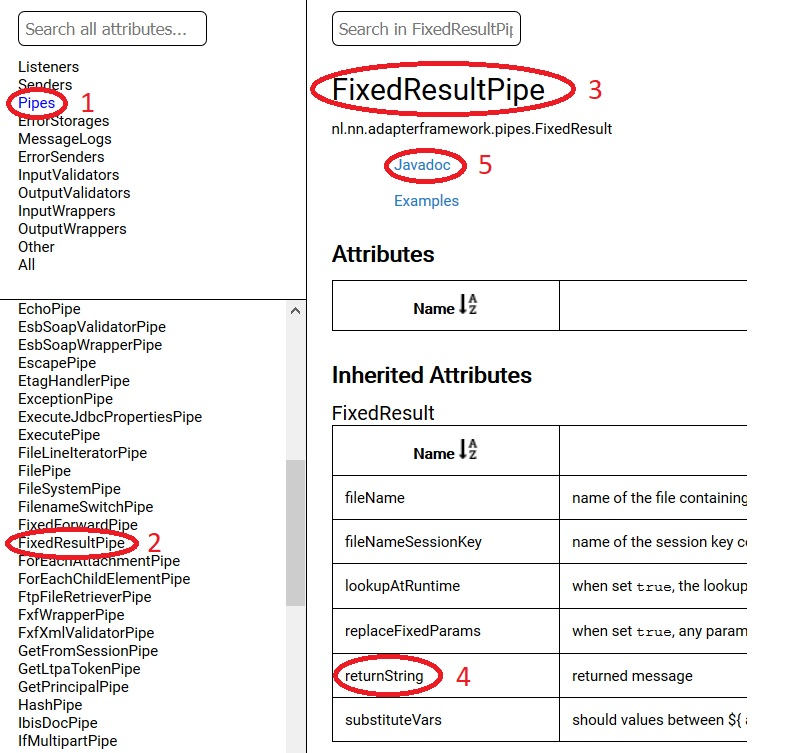
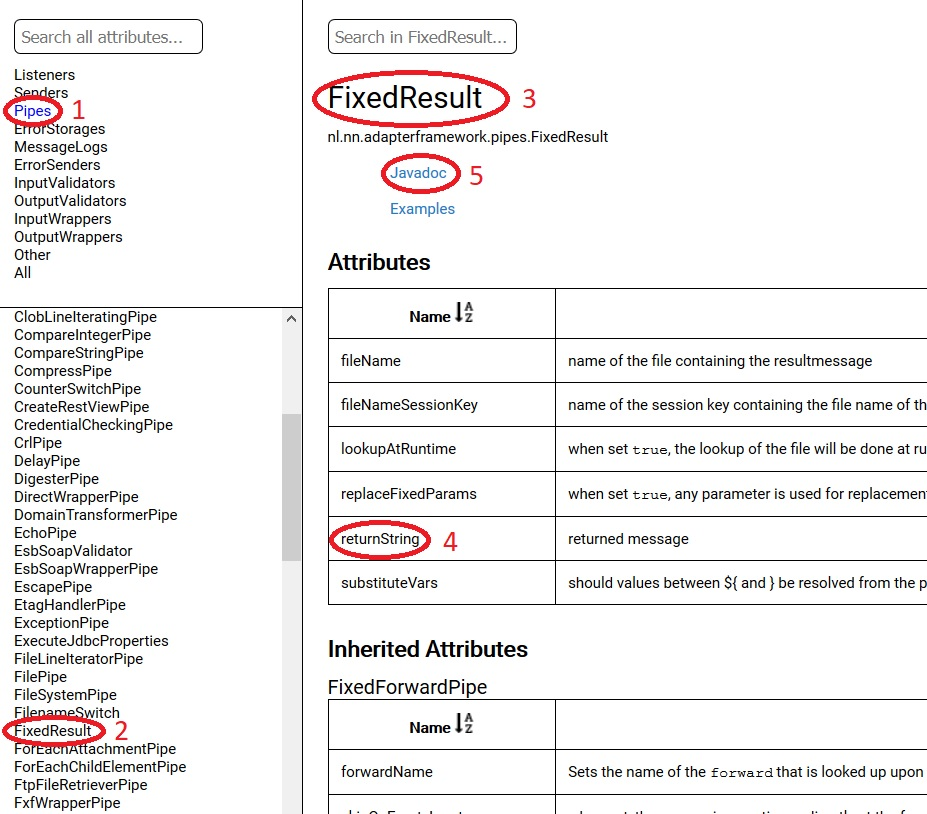
Fix Getting Started Configuration Management

diff --git a/docs/source/gettingStarted/configurationSyntaxChecking.rst b/docs/source/gettingStarted/configurationSyntaxChecking.rst
@@ -59,14 +59,14 @@ Please do the following to download the Frank configuration schema:
 Frank!Doc
 ---------
 
-From the screen shown at step 2, you can access the Frank!Doc, an additional source of documentation. It lets you search pipes, senders and receivers and it gives you detailed information.
+From the screen shown at step 3, you can access the Frank!Doc, an additional source of documentation. It lets you search pipes, senders and receivers and it gives you detailed information.
 
 6. In the picture of step 3, press "The new ibisdoc application" (number 2). The following screen appears:
 
    .. image:: frankDoc.jpg
 
 #. As an example, we want to see detailed information about the ``<FixedResultPipe>``. To the top-left, click "Pipes" (number 1). To the bottom-left, all available pipes are listed.
-#. Click "FixedResultPipe" (number 2). To the right, a page with detailed information appears. To the top it confirmst that it is about FixedResultPipe (number 3). You see the attribute you know already, "returnString" (number 4).
+#. Click "FixedResult" (number 2). To the right, a page with detailed information appears. To the top it confirmst that it is about FixedResult (number 3). You see the attribute you know already, "returnString" (number 4).
 #. Each pipe, sender or receiver corresponds to a Java class in the source code of the Frank!Framework. You can see the Javadoc documentation of this class by clicking "Javadoc" (number 5). This information is written for Java developers, but it may be useful sometimes for Frank developers.
 
 Try code completion
